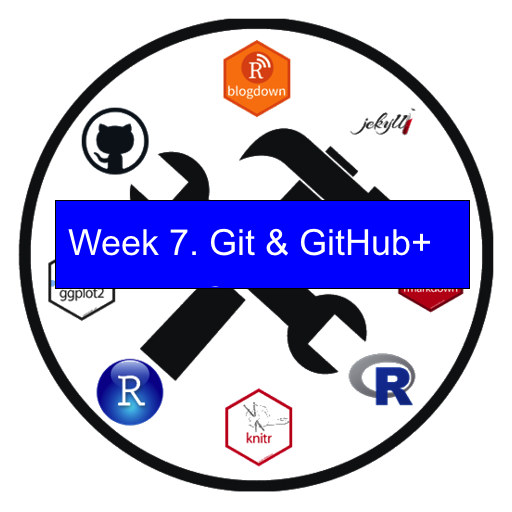
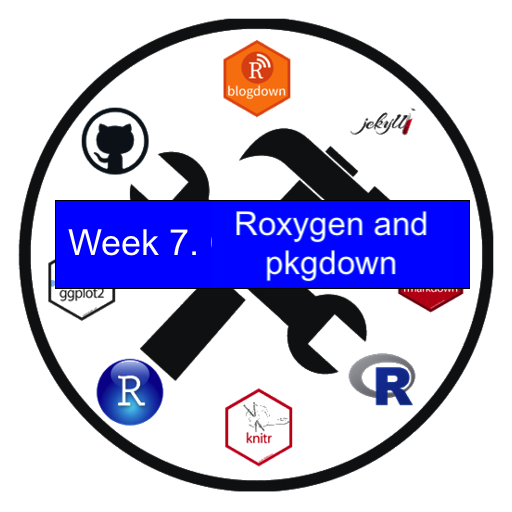
update with week 7 video

Changed region(s): [[0.4062, 0.4062, 0.8438, 0.5625]]

diff --git a/week7.html b/week7.html
@@ -451,8 +451,32 @@ div.tocify {
 <div id="roxygen2-and-pkgdown" class="section level2">
 <h2>Roxygen2 and pkgdown</h2>
 <ul>
+<li><a href="https://youtu.be/UYKezKp5dkY">Lecture video</a></li>
 <li><a href="week7-roxygen.html">The lecture notes</a></li>
 </ul>
+<p>Links to resources for <strong>pkgdown</strong> sites:</p>
+<ul>
+<li>The NOAA branded <strong>pkgdown template</strong> for you to clone (<a href="https://github.com/RWorkflow-Workshop-2021/pkgdown-template">repo</a>, <a href="https://rworkflow-workshop-2021.github.io/pkgdown-template/">webpage</a>)</li>
+<li><a href="https://github.com/nmfs-fish-tools/Resources">FIT Resources</a> <code>LICENSE</code> file, <code>Disclaimer.md</code> and NOAA footer for your packages here.</li>
+<li><a href="https://noaa-fisheries-integrated-toolbox.github.io/resources/workshops/NOAA-pkgdown/">FIT NOAA Themed pkgdown</a>. The <strong>pkgdown template</strong> repo uses the information from this.</li>
+<li><a href="https://noaa-fisheries-integrated-toolbox.github.io/resources/">FIT Resources blog</a> Scroll down the navbar on left to see coding resources.</li>
+</ul>
+</div>
+<div id="q-a" class="section level2">
+<h2>Q &amp; A</h2>
+<div id="badges" class="section level3">
+<h3>Badges</h3>
+<p>Check out <code>usethis::use_badges()</code>. You’ll want to make sure your <code>Readme.md</code> file has</p>
+<pre><code>&lt;!-- badges: start --&gt;
+
+&lt;!-- badges: end --&gt;</code></pre>
+<p>So <strong>usethis</strong> knows where to put the badge code.</p>
+</div>
+<div id="github-pages" class="section level3">
+<h3>GitHub Pages</h3>
+<p>With the last 2 <strong>pkgdown</strong> sites that I put up on GitHub Pages, I had some trouble where GitHub was only showing a page made from the Readme file and not the <strong>pkgdown</strong> site even though I had the GitHub Pages settings done correctly. so on my GitHub repository under Settings &gt; GitHub Pages &gt; branch = main and folder = docs.</p>
+<p>To solve, I changed branch = None in Settings &gt; GitHub Pages. That turns off GitHub Pages, then I immediately reset branch = main and folder = docs and hit Save. The <strong>pkgdown</strong> site then appeared within 30 seconds or so.</p>
+</div>
 </div>
 
 <hr>

diff --git a/index.html b/index.html
@@ -387,7 +387,7 @@ $(document).ready(function () {
 <li><p><a href="week4.html">June 18</a>. Rmarkdown for reports. Let’s make a report that updates when our data change and post that to GitHub.</p></li>
 <li><p><a href="week5.html">June 25</a>. Making plots with ggplot2. Learning ggplot2 will make it much easier to make plots from the big and complex datasets that you deal with on a daily basis.</p></li>
 <li><p><a href="week6.html">July 9</a>. Intro to R packages for data and code. How to build an R package in RStudio. In the second half of the lecture, I will show you how to make an R data package and what that can do to allow data documentation, data revision tracking, data versioning and data sharing.</p></li>
-<li><p><a href="week7.html">July 16</a>. Intro to Roxygen for documentation, <strong>pkgdown</strong> for package websites, and intro to GitHub Actions for automation. Even if you don’t do the coding on your team, you should be aware of how documentation works so you can contribute and the tools for automating tasks like a project website so your team doesn’t fall into inefficient workflows.</p></li>
+<li><p><a href="week7.html">July 16</a>. Intro to <strong>roxygen2</strong> for documentation and <strong>pkgdown</strong> for package websites. Even if you don’t do the coding on your team, you should be aware of how documentation works so you can contribute and the tools for automating tasks like a project website so your team doesn’t fall into inefficient workflows.</p></li>
 <li><p>July 23. Advanced topics for developers. How to set up a NAMESPACE, passing <code>R CMD check</code>, C++ code in your package, coding GitHub Actions workflows. I am going to pass on tips to help you understand how these things work so you don’t waste hours figuring it out or fall back on hacky solutions.</p></li>
 </ul>
 </div>

diff --git a/week8-adv-packages.html b/week8-adv-packages.html
@@ -723,8 +723,8 @@ for(i in 1:10000){ b &lt;- t(a)%*%a }
 Rprof()
 summaryRprof(tmp)$by.self</code></pre>
 <pre><code>##             self.time self.pct total.time total.pct
-## &quot;%*%&quot;            0.56    90.32       0.56     90.32
-## &quot;t.default&quot;      0.06     9.68       0.06      9.68</code></pre>
+## &quot;%*%&quot;            0.58    96.67       0.58     96.67
+## &quot;t.default&quot;      0.02     3.33       0.02      3.33</code></pre>
 <pre class="r"><code>Rprof(NULL) #stop profiling</code></pre>
 <p><strong>microbenchmark</strong></p>
 <p>This is a handy package for comparing speeds of code.</p>
@@ -734,7 +734,7 @@ res &lt;- microbenchmark(2 + 2, 2 + a, sum(2, a), sum(2, 2))
 ggplot2::autoplot(res)</code></pre>
 <pre><code>## Coordinate system already present. Adding new coordinate system, which will replace the existing one.</code></pre>
 <pre><code>## Warning: Transformation introduced infinite values in continuous y-axis</code></pre>
-<pre><code>## Warning: Removed 16 rows containing non-finite values (stat_ydensity).</code></pre>
+<pre><code>## Warning: Removed 12 rows containing non-finite values (stat_ydensity).</code></pre>
 <p><img src="week8-adv-packages_files/figure-html/unnamed-chunk-3-1.png" width="672" /></p>
 <p>This shows an example of code using <a href="https://www.datacamp.com/community/tutorials/pipe-r-tutorial">piping</a> (<code>%&gt;%</code>) versus without. This is why I do not use piping. It is slow and I do simulations and I want fast code.</p>
 <pre class="r"><code>library(magrittr)
